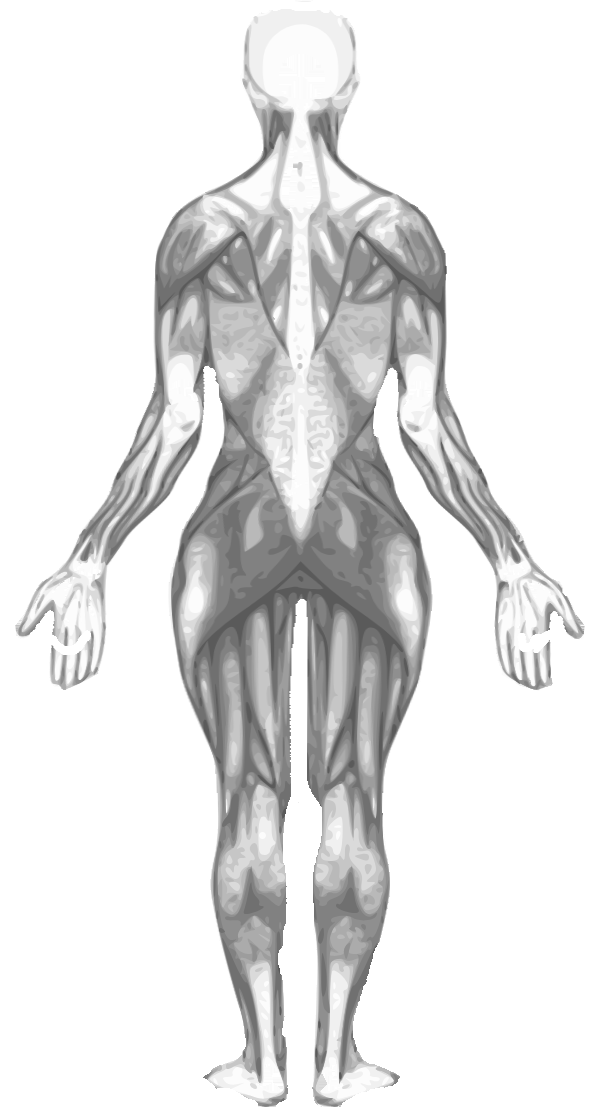
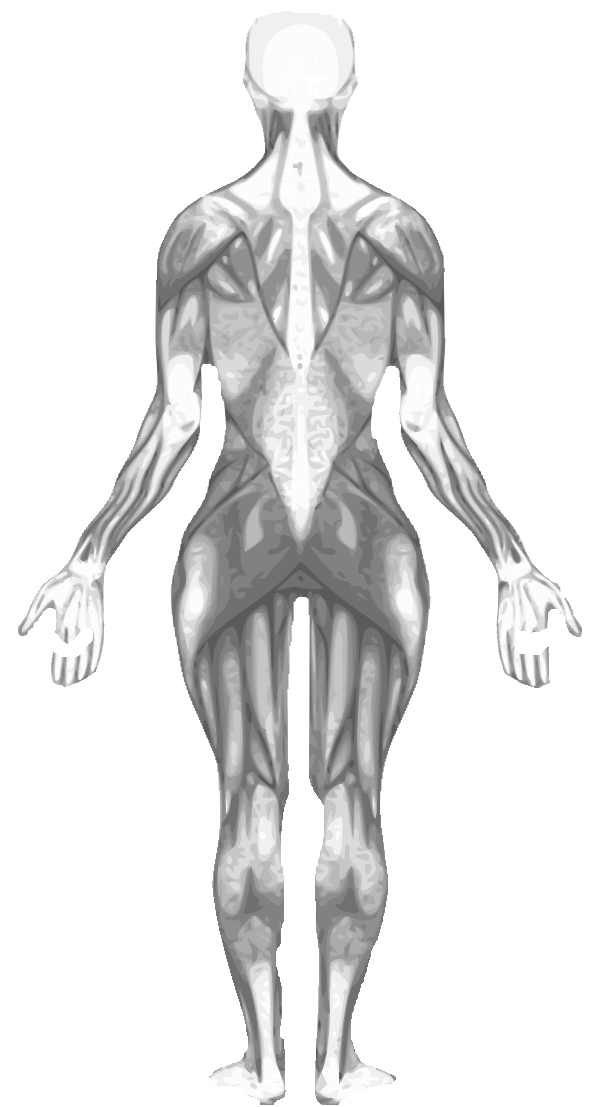
Heat map: crisp body outline when zoomed in
The gap-fill backdrop PNGs (600x1107) had an anti-aliased edge row that
poked ~1px past the vector outline. Unnoticeable at 1x, but at the heat
map's 2.5-4x zoom on a phone each PNG pixel is ~4 screen px, so it showed
as a jagged white staircase around the silhouette and the armpit gaps.
Eroded all four fills' alpha by 2px (5x5 min filter) so the vector outline
is the visible edge; interior gaps stay filled.

diff --git a/src/components/MuscleAnalytics/muscleBodyShapes.js b/src/components/MuscleAnalytics/muscleBodyShapes.js
@@ -200,6 +200,11 @@ export const BODY_BACK_SVG = ensureViewBox(lightenGreys(bodyBackRaw, BODY_TONE_O
 //   4. Fill eligible pixels with the color of their nearest real painted
 //      neighbour (multi-source flood fill), so each gap blends into its
 //      own local shading instead of one flat tone for the whole body.
+//   5. Erode the result's alpha by 2px (a 5×5 min filter, ~0.7 native
+//      units), so the raster's own edge sits just inside the vector
+//      outline. Its anti-aliased edge row poked ~1px past the SVG; at the
+//      heat map's 2.5–4× zoom on a phone that one row became a jagged white
+//      staircase around the whole silhouette and the armpit gaps.
 //
 // Regenerate (no CLI tool — needs a real browser canvas to rasterize the
 // SVG): ask Claude to re-run the gap-fill script against the current
